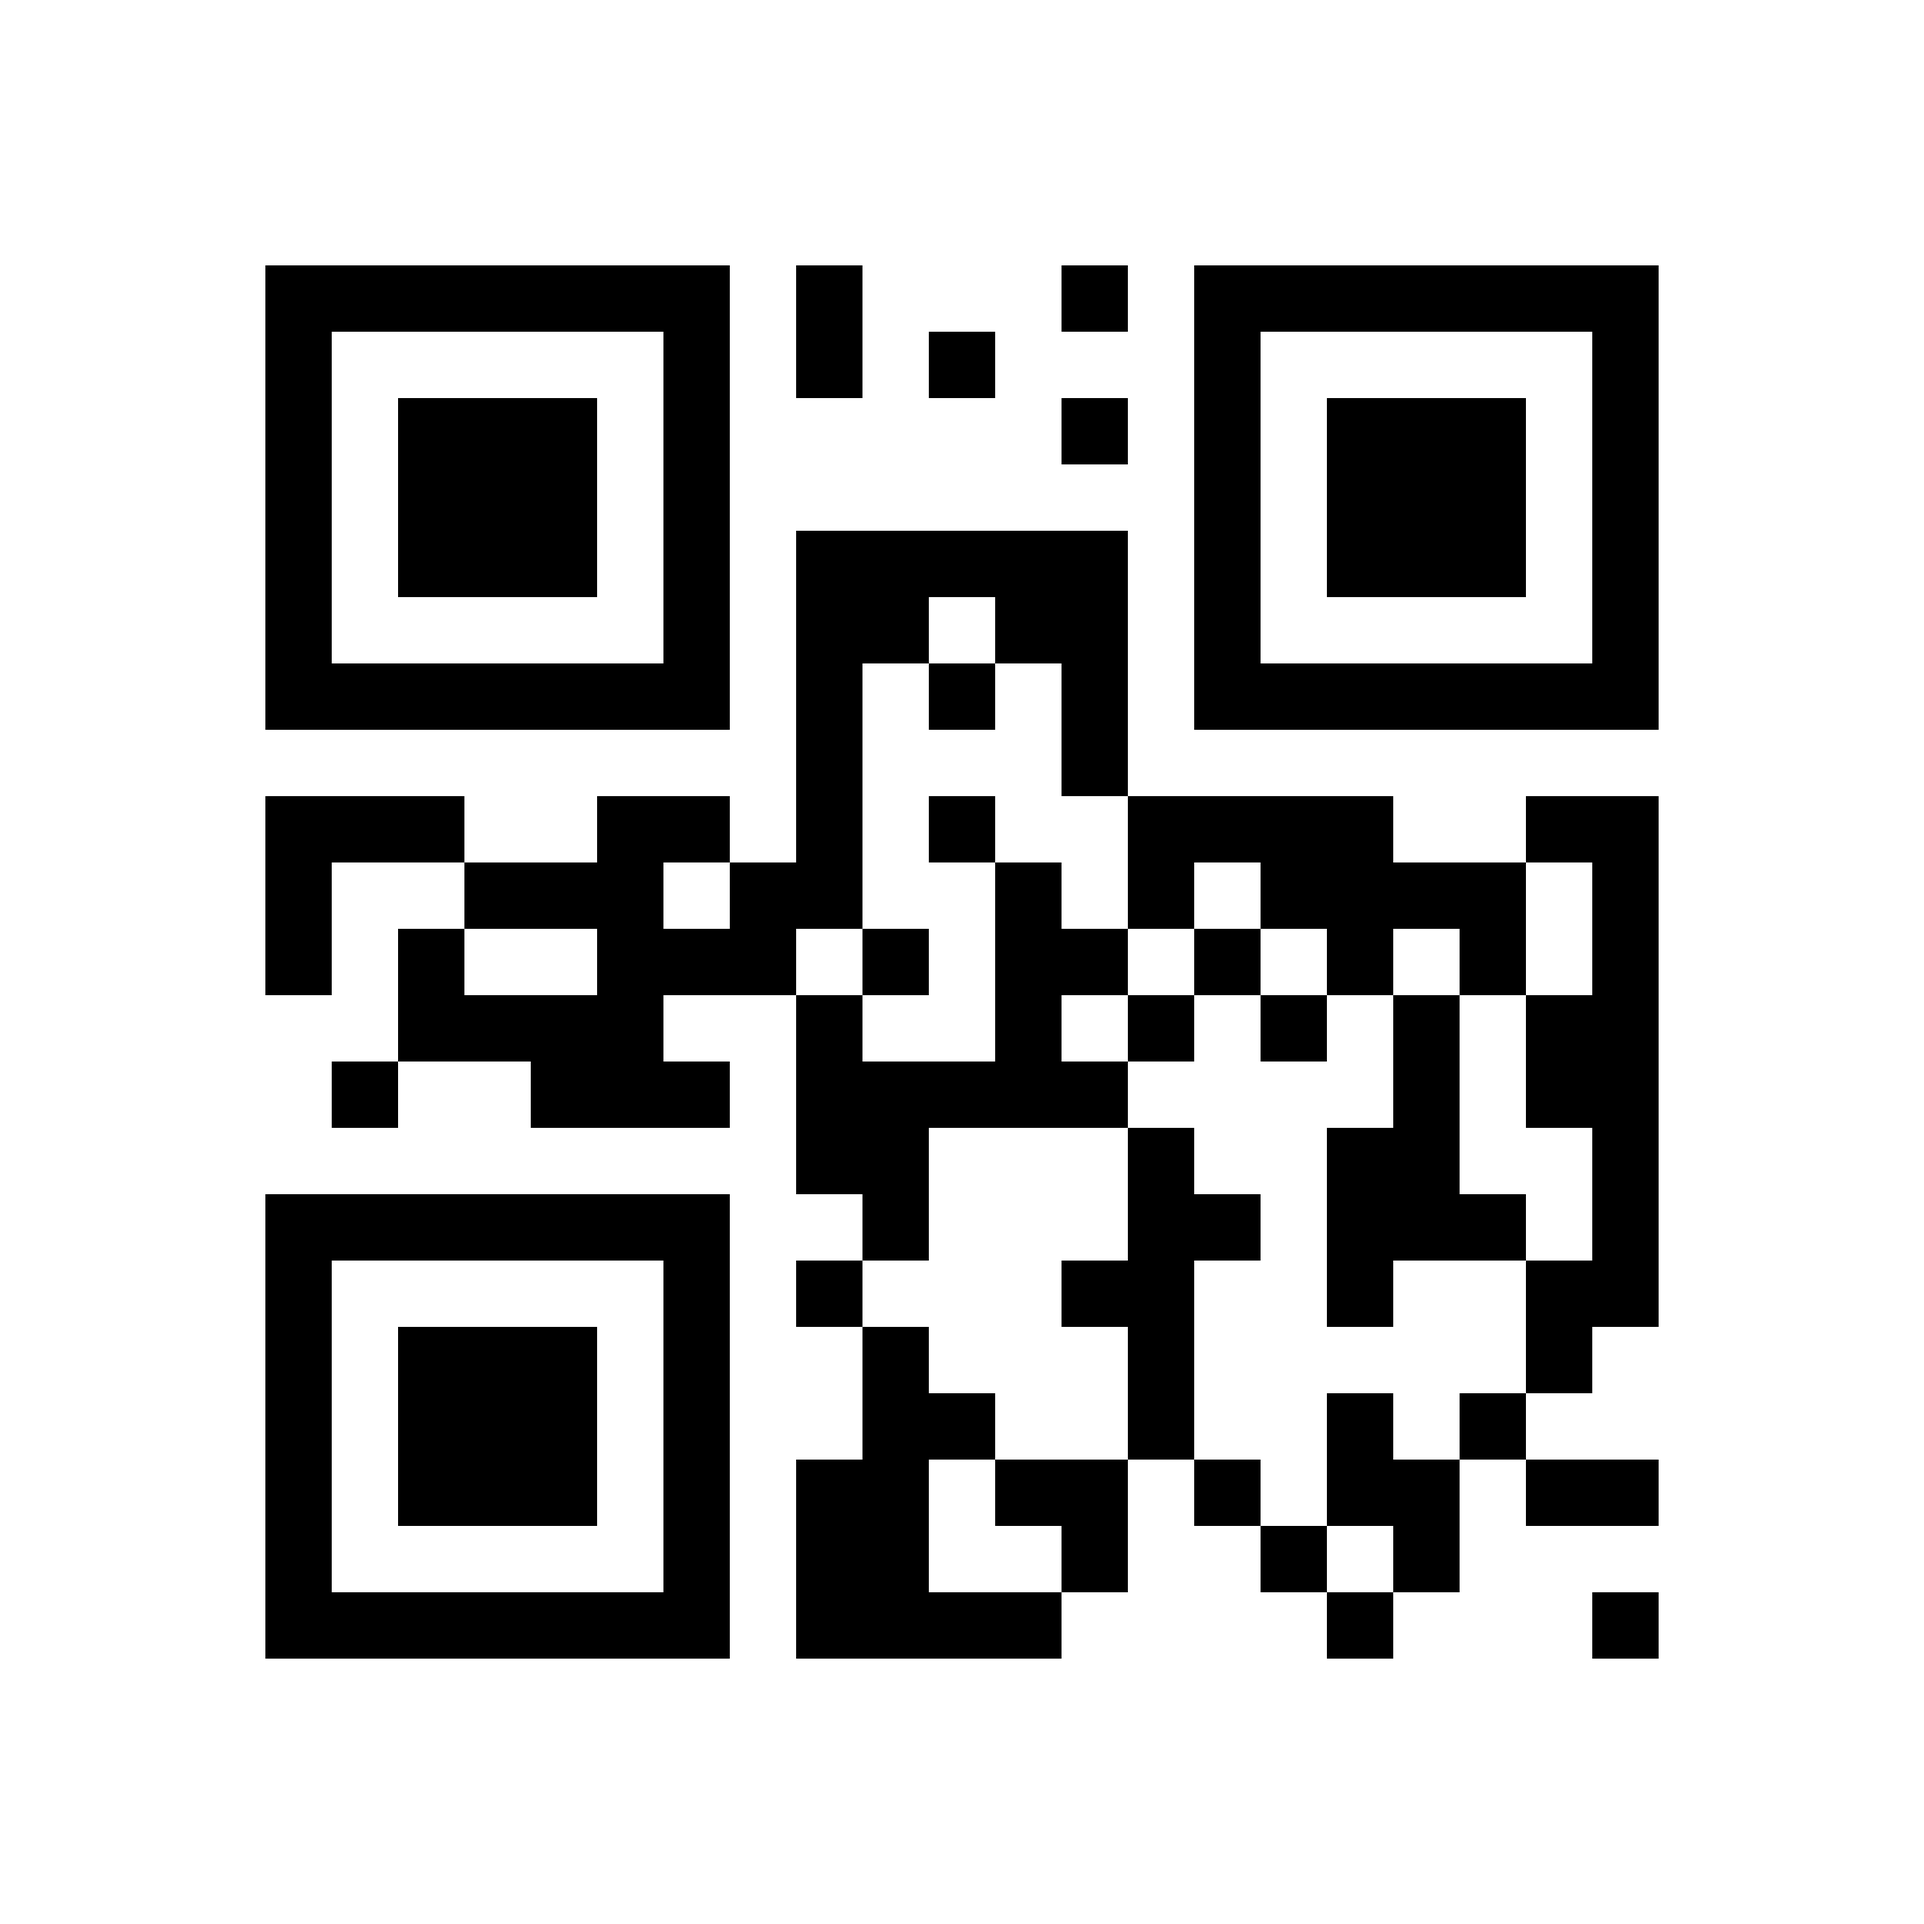
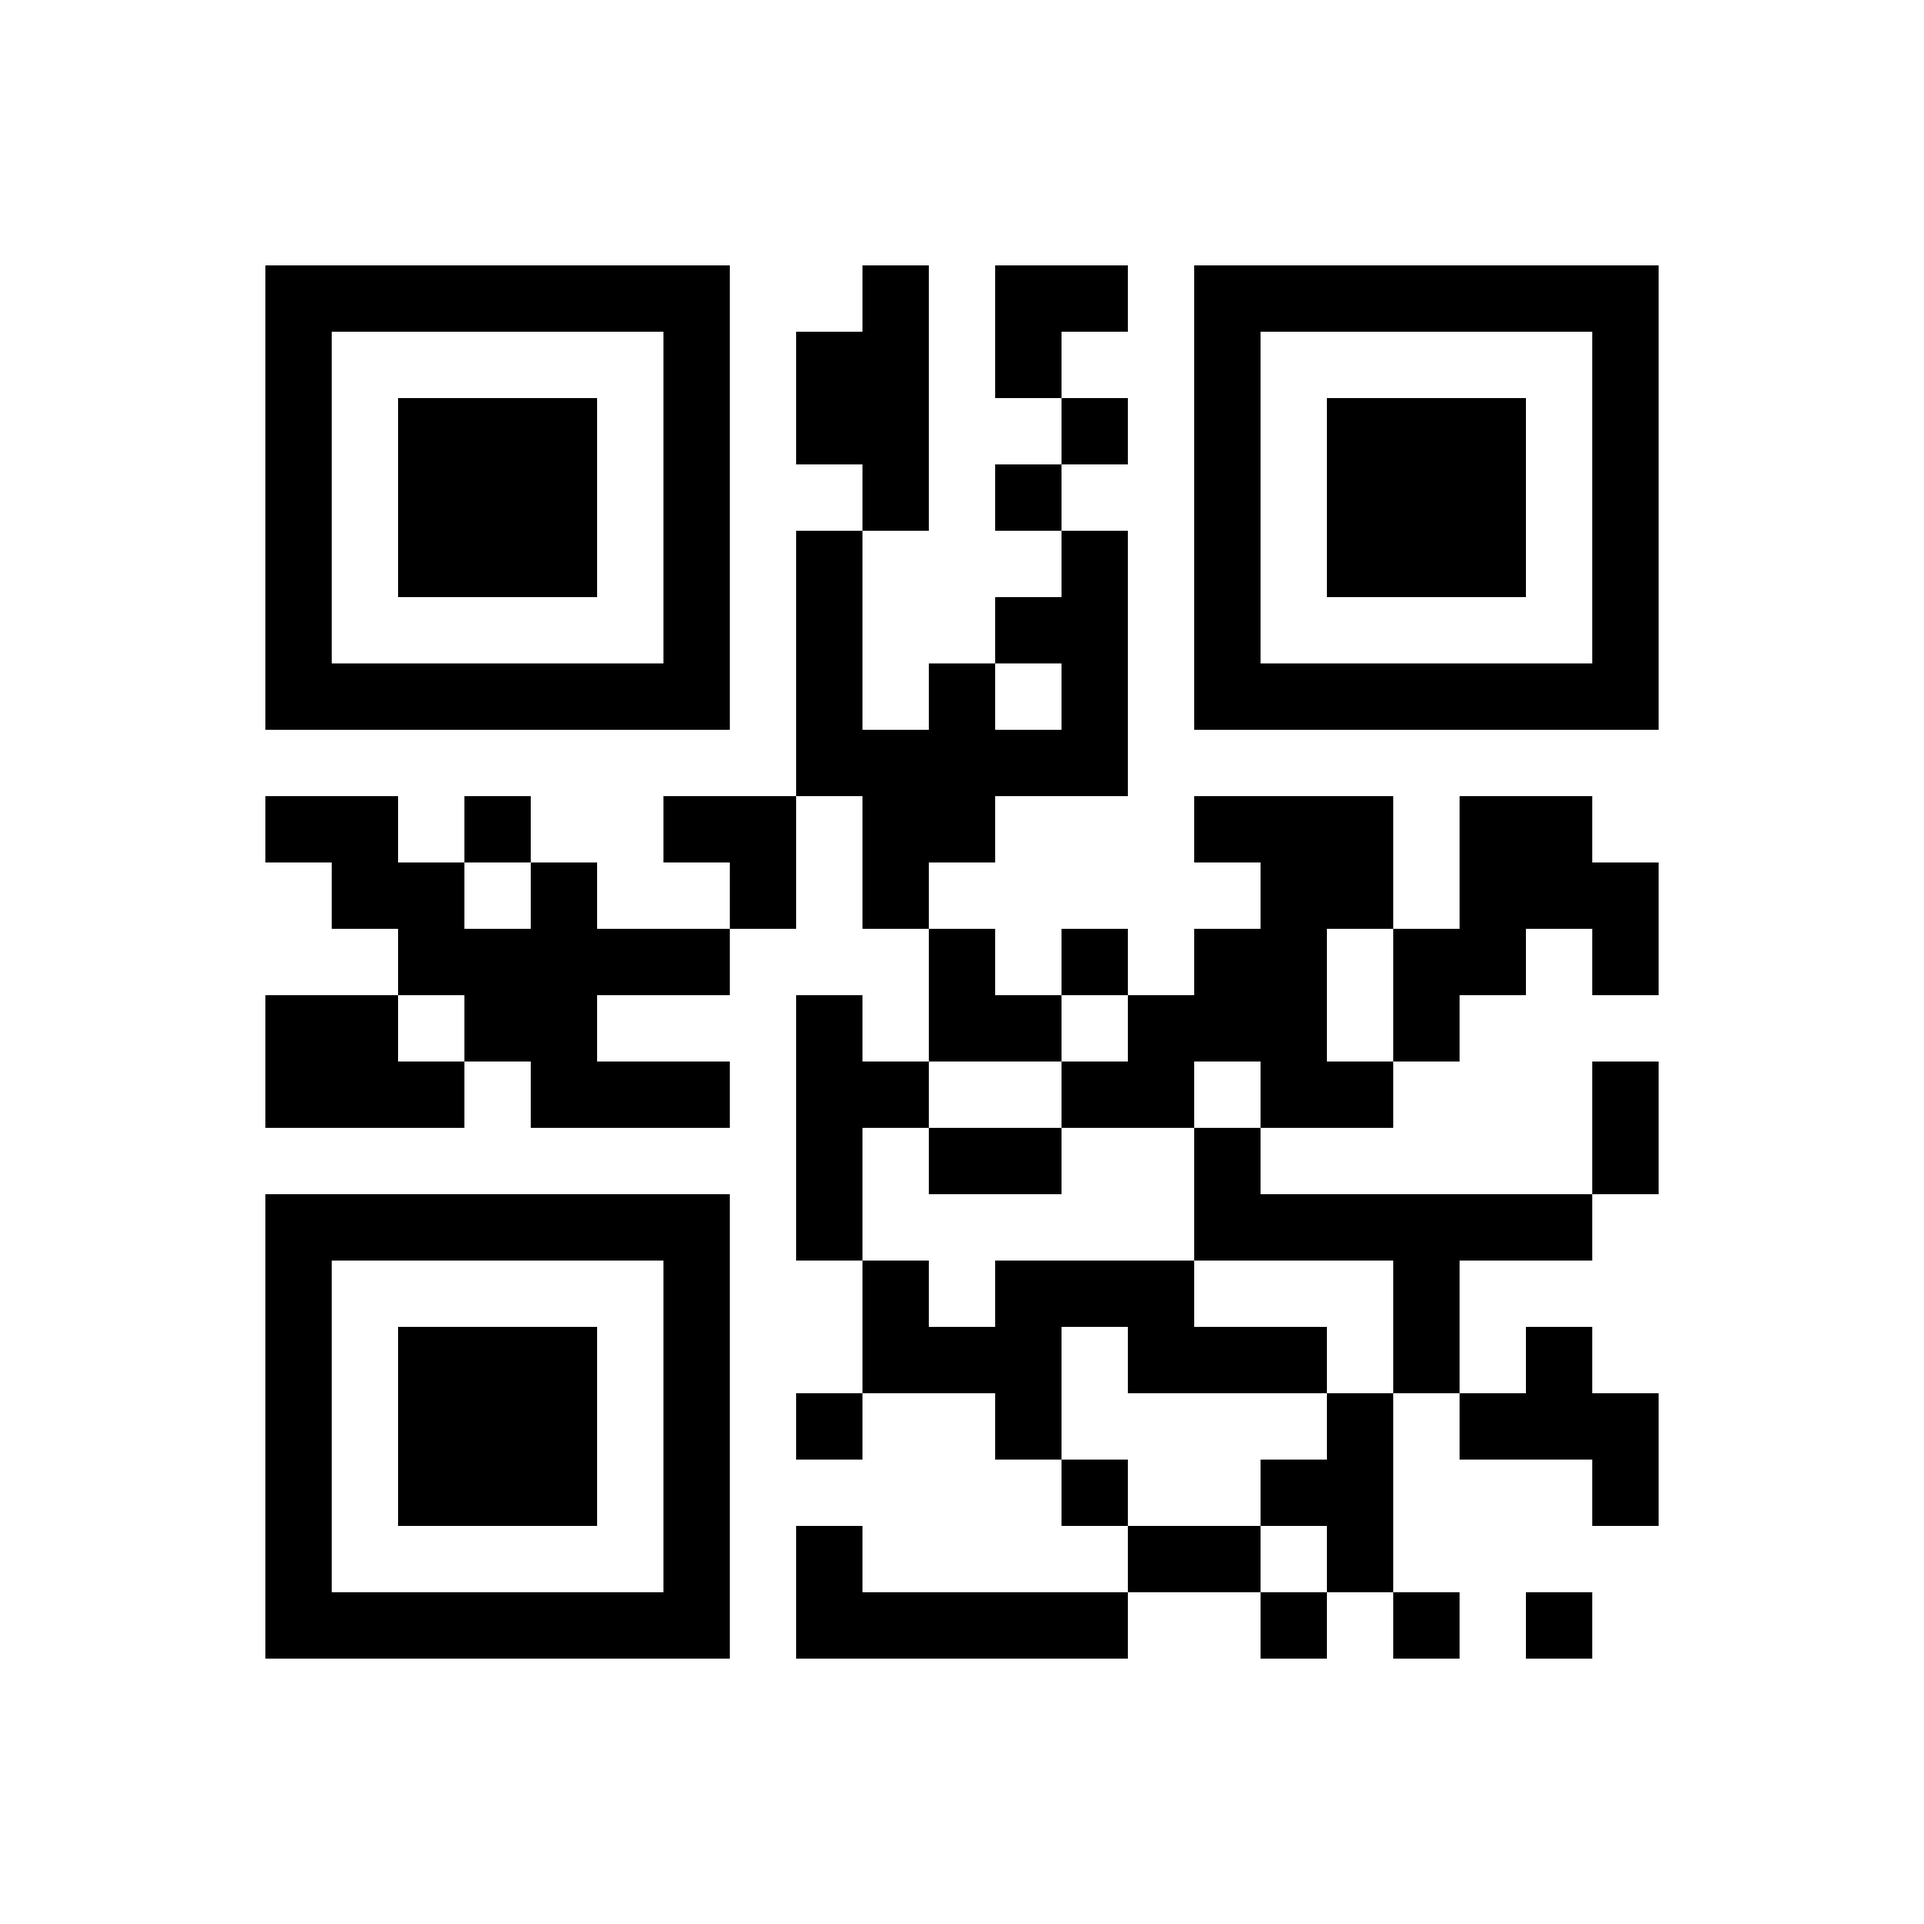
Update basic commands, bugfix qrgen.py

Changed region(s): [[0.1241, 0.3724, 0.869, 0.869], [0.4034, 0.1241, 0.5586, 0.3414]]

diff --git a/cards/basic_commands.html b/cards/basic_commands.html
@@ -4,111 +4,117 @@
   <meta charset="utf-8">
   <link rel="stylesheet" href="cards.css">
 </head>
-<body>
-<div class="card">
-  <img src="0art.jpg" class="art"/>
+<body><div class="card">
+  <img src="0art.png" class="art"/>
   <img src="0qr.png" class="qrcode"/>
-  <div class="labels">
+  <div class="labels track-info">
     <p class="song">Abspielen / Pausieren</p>
   </div>
 </div>
 <div class="card">
-  <img src="1art.jpg" class="art"/>
+  <img src="1art.png" class="art"/>
   <img src="1qr.png" class="qrcode"/>
-  <div class="labels">
+  <div class="labels track-info">
     <p class="song">Nächsten Titel abspielen</p>
   </div>
 </div>
 <br style="clear: both;"/>
 <div class="card">
-  <img src="2art.jpg" class="art"/>
+  <img src="2art.png" class="art"/>
   <img src="2qr.png" class="qrcode"/>
-  <div class="labels">
+  <div class="labels track-info">
     <p class="song">Vorherigen Titel abspielen</p>
   </div>
 </div>
 <div class="card">
-  <img src="3art.jpg" class="art"/>
+  <img src="3art.png" class="art"/>
   <img src="3qr.png" class="qrcode"/>
-  <div class="labels">
-    <p class="song">Queue Modus deaktivieren</p>
+  <div class="labels track-info">
+    <p class="song">Liste ersetzen</p>
   </div>
 </div>
 <br style="clear: both;"/>
 <div class="card">
-  <img src="4art.jpg" class="art"/>
+  <img src="4art.png" class="art"/>
   <img src="4qr.png" class="qrcode"/>
-  <div class="labels">
-    <p class="song">Queue Modus aktivieren</p>
+  <div class="labels track-info">
+    <p class="song">Am Listenende einfügen</p>
   </div>
 </div>
 <div class="card">
-  <img src="5art.jpg" class="art"/>
+  <img src="5art.png" class="art"/>
   <img src="5qr.png" class="qrcode"/>
-  <div class="labels">
+  <div class="labels track-info">
+    <p class="song">Jetzt abspielen</p>
+  </div>
+</div>
+<br style="clear: both;"/>
+<div class="card">
+  <img src="6art.png" class="art"/>
+  <img src="6qr.png" class="qrcode"/>
+  <div class="labels track-info">
     <p class="song">Alle wiederholen</p>
   </div>
 </div>
-<br style="clear: both;"/>
 <div class="card">
-  <img src="6art.jpg" class="art"/>
-  <img src="6qr.png" class="qrcode"/>
-  <div class="labels">
+  <img src="7art.png" class="art"/>
+  <img src="7qr.png" class="qrcode"/>
+  <div class="labels track-info">
     <p class="song">Titel wiederholen</p>
   </div>
 </div>
+<br style="clear: both;"/>
 <div class="card">
-  <img src="7art.jpg" class="art"/>
-  <img src="7qr.png" class="qrcode"/>
-  <div class="labels">
+  <img src="8art.png" class="art"/>
+  <img src="8qr.png" class="qrcode"/>
+  <div class="labels track-info">
     <p class="song">Wiederholen aus</p>
   </div>
 </div>
-<br style="clear: both;"/>
 <div class="card">
-  <img src="8art.jpg" class="art"/>
-  <img src="8qr.png" class="qrcode"/>
-  <div class="labels">
+  <img src="9art.png" class="art"/>
+  <img src="9qr.png" class="qrcode"/>
+  <div class="labels track-info">
     <p class="song">Zufällige Wiedergabe einschalten</p>
   </div>
 </div>
+<br style="clear: both;"/>
 <div class="card">
-  <img src="9art.jpg" class="art"/>
-  <img src="9qr.png" class="qrcode"/>
-  <div class="labels">
+  <img src="10art.png" class="art"/>
+  <img src="10qr.png" class="qrcode"/>
+  <div class="labels track-info">
     <p class="song">Zufällige Wiedergabe ausschalten</p>
   </div>
 </div>
-<br style="clear: both;"/>
 <div class="card">
-  <img src="10art.jpg" class="art"/>
-  <img src="10qr.png" class="qrcode"/>
-  <div class="labels">
+  <img src="11art.png" class="art"/>
+  <img src="11qr.png" class="qrcode"/>
+  <div class="labels track-info">
     <p class="song">Ton aus</p>
   </div>
 </div>
+<br style="clear: both;"/>
 <div class="card">
-  <img src="11art.jpg" class="art"/>
-  <img src="11qr.png" class="qrcode"/>
-  <div class="labels">
+  <img src="12art.png" class="art"/>
+  <img src="12qr.png" class="qrcode"/>
+  <div class="labels track-info">
     <p class="song">Ton an</p>
   </div>
 </div>
-<br style="clear: both;"/>
 <div class="card">
-  <img src="12art.jpg" class="art"/>
-  <img src="12qr.png" class="qrcode"/>
-  <div class="labels">
+  <img src="13art.png" class="art"/>
+  <img src="13qr.png" class="qrcode"/>
+  <div class="labels track-info">
     <p class="song">Lautstärke +5</p>
   </div>
 </div>
+<br style="clear: both;"/>
 <div class="card">
-  <img src="13art.jpg" class="art"/>
-  <img src="13qr.png" class="qrcode"/>
-  <div class="labels">
+  <img src="14art.png" class="art"/>
+  <img src="14qr.png" class="qrcode"/>
+  <div class="labels track-info">
     <p class="song">Lautstärke -5</p>
   </div>
 </div>
-<br style="clear: both;"/>
 </body>
 </html>

diff --git a/qrgen.py b/qrgen.py
@@ -183,6 +183,7 @@ def generate_individual_card_image(index, artist, album, song, service):
 
 
 def generate_cards():
+    service = ''
     duplex = args.print_dublex
     htmlarr = []
 
